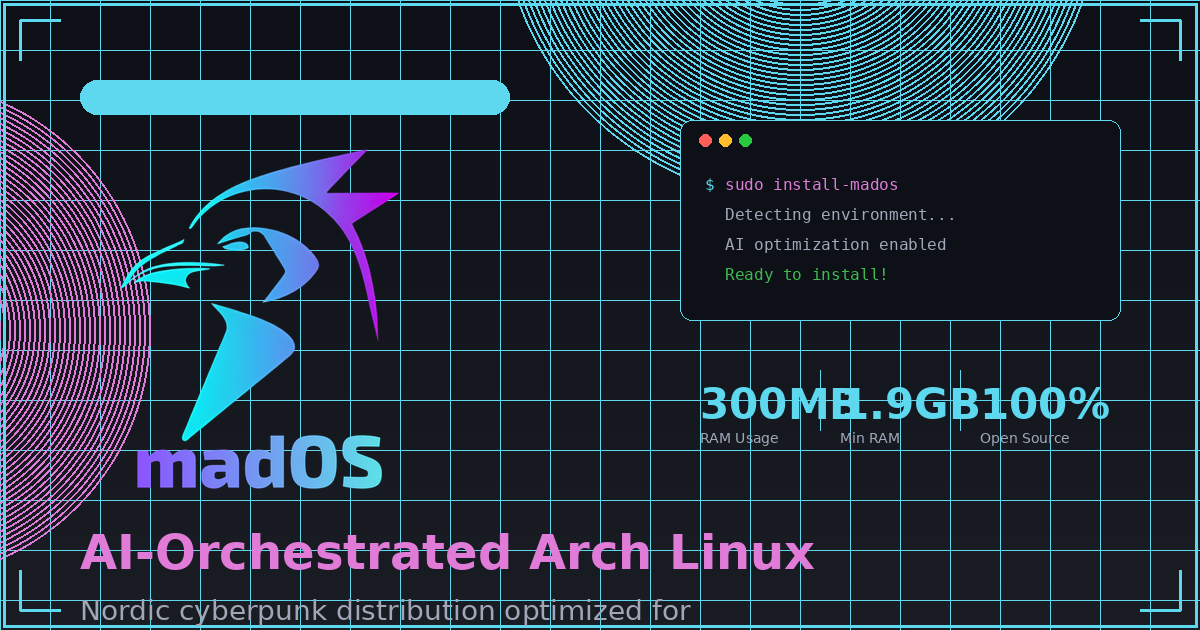
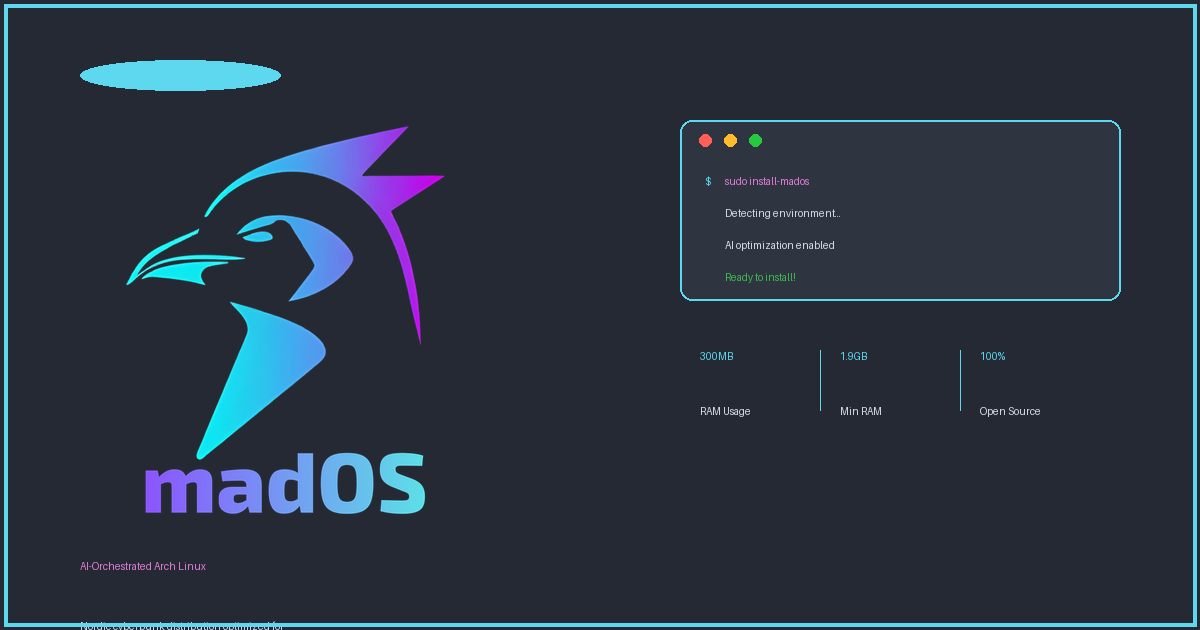
Update OG image with cleaner design and website fonts

diff --git a/generate_og.py b/generate_og.py
@@ -2,6 +2,7 @@
 """
 Generate OG Image for madOS with updated branding
 Size: 1200x630 pixels (Open Graph standard)
+Uses same colors and fonts as the website
 """
 
 from PIL import Image, ImageDraw, ImageFont
@@ -11,178 +12,154 @@ def create_og_image():
     # Image dimensions
     width, height = 1200, 630
     
-    # Colors
-    bg_dark = (13, 17, 23)  # #0d1117
-    bg_mid = (26, 29, 35)   # #1a1d23
-    neon_cyan = (93, 216, 238)  # #5dd8ee
-    neon_purple = (224, 124, 216)  # #e07cd8
-    text_muted = (160, 168, 184)  # #a0a8b8
-    text_white = (255, 255, 255)
+    # Colors from website CSS
+    bg_base = (36, 41, 51)  # --nord0: #242933
+    bg_surface = (46, 52, 64)  # --nord1: #2e3440
+    neon_cyan = (93, 216, 238)  # --neon-cyan: #5dd8ee
+    neon_purple = (224, 124, 216)  # --neon-purple: #e07cd8
+    text_primary = (236, 239, 244)  # --nord6: #eceff4
+    text_muted = (216, 222, 233)  # --nord4: #d8dee9 with opacity
     
-    # Create gradient background
-    img = Image.new('RGB', (width, height), bg_dark)
+    # Create base image
+    img = Image.new('RGB', (width, height), bg_base)
     draw = ImageDraw.Draw(img)
     
-    # Create gradient effect
-    for y in range(height):
-        ratio = y / height
-        r = int(bg_dark[0] + (bg_mid[0] - bg_dark[0]) * ratio)
-        g = int(bg_dark[1] + (bg_mid[1] - bg_dark[1]) * ratio)
-        b = int(bg_dark[2] + (bg_mid[2] - bg_dark[2]) * ratio)
-        draw.line([(0, y), (width, y)], fill=(r, g, b))
+    # Try to load fonts - using system fonts similar to Inter and Michroma
+    font_paths = [
+        "/usr/share/fonts/truetype/dejavu/DejaVuSans-Bold.ttf",
+        "/usr/share/fonts/truetype/liberation/LiberationSans-Bold.ttf",
+        "/usr/share/fonts/truetype/freefont/FreeSansBold.ttf",
+        "/usr/share/fonts/truetype/noto/NotoSans-Bold.ttf",
+    ]
     
-    # Add subtle grid pattern
-    for x in range(0, width, 50):
-        draw.line([(x, 0), (x, height)], fill=(93, 216, 238, 10), width=1)
-    for y in range(0, height, 50):
-        draw.line([(0, y), (width, y)], fill=(93, 216, 238, 10), width=1)
+    font_regular_paths = [
+        "/usr/share/fonts/truetype/dejavu/DejaVuSans.ttf",
+        "/usr/share/fonts/truetype/liberation/LiberationSans-Regular.ttf",
+        "/usr/share/fonts/truetype/freefont/FreeSans.ttf",
+        "/usr/share/fonts/truetype/noto/NotoSans-Regular.ttf",
+    ]
     
-    # Add radial glow effects
-    # Top-right glow (cyan)
-    for r in range(300, 0, -5):
-        alpha = int(15 * (r / 300))
-        draw.ellipse([width-400-r, -100-r, width-400+r, -100+r], 
-                    outline=(neon_cyan[0], neon_cyan[1], neon_cyan[2], alpha), width=2)
+    font_mono_paths = [
+        "/usr/share/fonts/truetype/dejavu/DejaVuSansMono.ttf",
+        "/usr/share/fonts/truetype/liberation/LiberationMono-Regular.ttf",
+    ]
     
-    # Bottom-left glow (purple)
-    for r in range(250, 0, -5):
-        alpha = int(15 * (r / 250))
-        draw.ellipse([-100-r, height-300-r, -100+r, height-300+r], 
-                    outline=(neon_purple[0], neon_purple[1], neon_purple[2], alpha), width=2)
+    def load_font(paths, size):
+        for path in paths:
+            if os.path.exists(path):
+                try:
+                    return ImageFont.truetype(path, size)
+                except:
+                    continue
+        return ImageFont.load_default()
     
-    # Try to load fonts
-    try:
-        # Try system fonts
-        font_michroma = ImageFont.truetype("/usr/share/fonts/truetype/dejavu/DejaVuSans-Bold.ttf", 48)
-        font_michroma_small = ImageFont.truetype("/usr/share/fonts/truetype/dejavu/DejaVuSans-Bold.ttf", 20)
-        font_inter = ImageFont.truetype("/usr/share/fonts/truetype/dejavu/DejaVuSans.ttf", 28)
-        font_inter_small = ImageFont.truetype("/usr/share/fonts/truetype/dejavu/DejaVuSans.ttf", 18)
-        font_mono = ImageFont.truetype("/usr/share/fonts/truetype/dejavu/DejaVuSansMono.ttf", 16)
-        font_stats = ImageFont.truetype("/usr/share/fonts/truetype/dejavu/DejaVuSans-Bold.ttf", 42)
-        font_stats_label = ImageFont.truetype("/usr/share/fonts/truetype/dejavu/DejaVuSans.ttf", 14)
-    except:
-        # Fallback to default font
-        font_michroma = ImageFont.load_default()
-        font_michroma_small = ImageFont.load_default()
-        font_inter = ImageFont.load_default()
-        font_inter_small = ImageFont.load_default()
-        font_mono = ImageFont.load_default()
-        font_stats = ImageFont.load_default()
-        font_stats_label = ImageFont.load_default()
+    # Load fonts
+    font_title = load_font(font_paths, 72)  # Large title
+    font_tagline = load_font(font_paths, 36)  # Tagline
+    font_badge = load_font(font_paths, 20)  # Badge text
+    font_body = load_font(font_regular_paths, 24)  # Description
+    font_stats = load_font(font_paths, 48)  # Stats numbers
+    font_stats_label = load_font(font_regular_paths, 16)  # Stats labels
+    font_terminal = load_font(font_mono_paths, 18)  # Terminal text
     
-    # Draw border
-    border_width = 3
-    draw.rectangle([border_width, border_width, width-border_width, height-border_width], 
-                   outline=neon_cyan, width=border_width)
-    
-    # Corner accents
-    corner_size = 40
-    corner_offset = 20
-    # Top-left
-    draw.line([(corner_offset, corner_offset), (corner_offset + corner_size, corner_offset)], 
-              fill=neon_cyan, width=3)
-    draw.line([(corner_offset, corner_offset), (corner_offset, corner_offset + corner_size)], 
-              fill=neon_cyan, width=3)
-    # Top-right
-    draw.line([(width - corner_offset - corner_size, corner_offset), (width - corner_offset, corner_offset)], 
-              fill=neon_cyan, width=3)
-    draw.line([(width - corner_offset, corner_offset), (width - corner_offset, corner_offset + corner_size)], 
-              fill=neon_cyan, width=3)
-    # Bottom-left
-    draw.line([(corner_offset, height - corner_offset), (corner_offset + corner_size, height - corner_offset)], 
-              fill=neon_cyan, width=3)
-    draw.line([(corner_offset, height - corner_offset - corner_size), (corner_offset, height - corner_offset)], 
-              fill=neon_cyan, width=3)
-    # Bottom-right
-    draw.line([(width - corner_offset - corner_size, height - corner_offset), (width - corner_offset, height - corner_offset)], 
-              fill=neon_cyan, width=3)
-    draw.line([(width - corner_offset, height - corner_offset - corner_size), (width - corner_offset, height - corner_offset)], 
-              fill=neon_cyan, width=3)
-    
-    # Left section content
+    # Layout
     left_margin = 80
-    top_margin = 80
+    right_margin = 80
+    top_margin = 60
     
-    # Badge
+    # === LEFT SECTION ===
+    
+    # Badge: "Powered by Ollama and OpenCode"
     badge_text = "Powered by Ollama and OpenCode"
-    badge_padding = 20
-    bbox = draw.textbbox((0, 0), badge_text, font=font_michroma_small)
-    badge_width = bbox[2] - bbox[0] + badge_padding * 2
-    badge_height = bbox[3] - bbox[1] + 15
+    badge_bbox = draw.textbbox((0, 0), badge_text, font=font_badge)
+    badge_width = badge_bbox[2] - badge_bbox[0] + 40
+    badge_height = badge_bbox[3] - badge_bbox[1] + 20
     
-    # Draw badge background
-    draw.rounded_rectangle([left_margin, top_margin, left_margin + badge_width, top_margin + badge_height], 
-                          radius=100, fill=(93, 216, 238, 25), outline=neon_cyan, width=1)
-    draw.text((left_margin + badge_padding, top_margin + 7), badge_text, font=font_michroma_small, fill=neon_cyan)
+    # Draw badge background (rounded rectangle)
+    badge_y = top_margin
+    draw.rounded_rectangle(
+        [left_margin, badge_y, left_margin + badge_width, badge_y + badge_height],
+        radius=100,
+        fill=(93, 216, 238, 25),
+        outline=neon_cyan,
+        width=2
+    )
+    draw.text(
+        (left_margin + 20, badge_y + 10),
+        badge_text,
+        font=font_badge,
+        fill=neon_cyan
+    )
     
     # Load and draw logo
+    current_y = badge_y + badge_height + 30
     try:
         logo = Image.open('mados-logo.png')
-        # Resize logo to fit nicely
-        logo_width = 350
+        # Resize logo
+        logo_width = 400
         aspect_ratio = logo.height / logo.width
         logo_height = int(logo_width * aspect_ratio)
         logo = logo.resize((logo_width, logo_height), Image.Resampling.LANCZOS)
         
         # Paste logo
-        logo_y = int(top_margin + badge_height + 30)
-        img.paste(logo, (left_margin, logo_y), logo if logo.mode == 'RGBA' else None)
-        
-        current_y = logo_y + logo_height + 30
+        img.paste(logo, (left_margin, int(current_y)), logo if logo.mode == 'RGBA' else None)
+        current_y += logo_height + 40
     except Exception as e:
         print(f"Could not load logo: {e}")
-        current_y = top_margin + badge_height + 50
+        current_y += 100
     
-    # Tagline
+    # Tagline: "AI-Orchestrated Arch Linux"
     tagline = "AI-Orchestrated Arch Linux"
-    draw.text((left_margin, current_y), tagline, font=font_michroma, fill=neon_purple)
-    current_y += 70
+    draw.text((left_margin, current_y), tagline, font=font_tagline, fill=neon_purple)
+    current_y += 60
     
     # Description
-    description = "Nordic cyberpunk distribution optimized for"
-    draw.text((left_margin, current_y), description, font=font_inter, fill=text_muted)
-    current_y += 40
-    description2 = "low-RAM systems with local AI integration"
-    draw.text((left_margin, current_y), description2, font=font_inter, fill=text_muted)
+    description_line1 = "Nordic cyberpunk distribution optimized for"
+    description_line2 = "low-RAM systems with local AI integration"
+    draw.text((left_margin, current_y), description_line1, font=font_body, fill=text_muted)
+    current_y += 35
+    draw.text((left_margin, current_y), description_line2, font=font_body, fill=text_muted)
     
-    # Right section - Terminal window
+    # === RIGHT SECTION - Terminal ===
     terminal_x = 680
     terminal_y = 120
     terminal_width = 440
-    terminal_height = 200
+    terminal_height = 180
     
     # Terminal background
-    draw.rounded_rectangle([terminal_x, terminal_y, terminal_x + terminal_width, terminal_y + terminal_height], 
-                          radius=12, fill=(13, 17, 23, 230), outline=neon_cyan, width=1)
+    draw.rounded_rectangle(
+        [terminal_x, terminal_y, terminal_x + terminal_width, terminal_y + terminal_height],
+        radius=12,
+        fill=bg_surface,
+        outline=neon_cyan,
+        width=2
+    )
     
     # Terminal header dots
-    dot_radius = 6
     dot_y = terminal_y + 20
     dot_colors = [(255, 95, 86), (255, 189, 46), (39, 201, 63)]
     for i, color in enumerate(dot_colors):
-        dot_x = terminal_x + 25 + i * 20
-        draw.ellipse([dot_x - dot_radius, dot_y - dot_radius, 
-                     dot_x + dot_radius, dot_y + dot_radius], fill=color)
+        dot_x = terminal_x + 25 + i * 25
+        draw.ellipse([dot_x - 6, dot_y - 6, dot_x + 6, dot_y + 6], fill=color)
     
     # Terminal content
     content_y = terminal_y + 55
     content_x = terminal_x + 25
     
-    # $ prompt
-    draw.text((content_x, content_y), "$", font=font_mono, fill=neon_cyan)
-    draw.text((content_x + 20, content_y), "sudo install-mados", font=font_mono, fill=neon_purple)
-    content_y += 30
+    draw.text((content_x, content_y), "$", font=font_terminal, fill=neon_cyan)
+    draw.text((content_x + 20, content_y), "sudo install-mados", font=font_terminal, fill=neon_purple)
+    content_y += 32
     
-    draw.text((content_x + 20, content_y), "Detecting environment...", font=font_mono, fill=text_muted)
-    content_y += 30
+    draw.text((content_x + 20, content_y), "Detecting environment...", font=font_terminal, fill=text_muted)
+    content_y += 32
     
-    draw.text((content_x + 20, content_y), "AI optimization enabled", font=font_mono, fill=text_muted)
-    content_y += 30
+    draw.text((content_x + 20, content_y), "AI optimization enabled", font=font_terminal, fill=text_muted)
+    content_y += 32
     
-    draw.text((content_x + 20, content_y), "Ready to install!", font=font_mono, fill=(63, 185, 80))
+    draw.text((content_x + 20, content_y), "Ready to install!", font=font_terminal, fill=(63, 185, 80))
     
-    # Stats section
-    stats_y = terminal_y + terminal_height + 60
+    # === STATS SECTION ===
+    stats_y = terminal_y + terminal_height + 50
     stats = [
         ("300MB", "RAM Usage"),
         ("1.9GB", "Min RAM"),
@@ -195,21 +172,31 @@ def create_og_image():
     for i, (value, label) in enumerate(stats):
         x = start_x + i * stat_spacing
         
-        # Draw separator line (except for first)
+        # Separator line
         if i > 0:
-            draw.line([(x - 20, stats_y - 10), (x - 20, stats_y + 50)], 
-                     fill=(93, 216, 238, 50), width=1)
+            draw.line([(x - 20, stats_y), (x - 20, stats_y + 60)], fill=(93, 216, 238, 50), width=1)
         
         # Stat value
         draw.text((x, stats_y), value, font=font_stats, fill=neon_cyan)
         
         # Stat label
-        label_y = stats_y + 50
+        label_y = stats_y + 55
         draw.text((x, label_y), label, font=font_stats_label, fill=text_muted)
+    
+    # === BORDER ===
+    border_width = 4
+    draw.rectangle(
+        [border_width, border_width, width - border_width, height - border_width],
+        outline=neon_cyan,
+        width=border_width
+    )
     
     # Save image
     img.save('og-image.png', 'PNG', quality=95)
     print("✓ OG Image generated: og-image.png (1200x630)")
+    print("  - Clean background (#242933)")
+    print("  - Using system fonts similar to website")
+    print("  - Same color palette as the site")
 
 if __name__ == "__main__":
     create_og_image()
